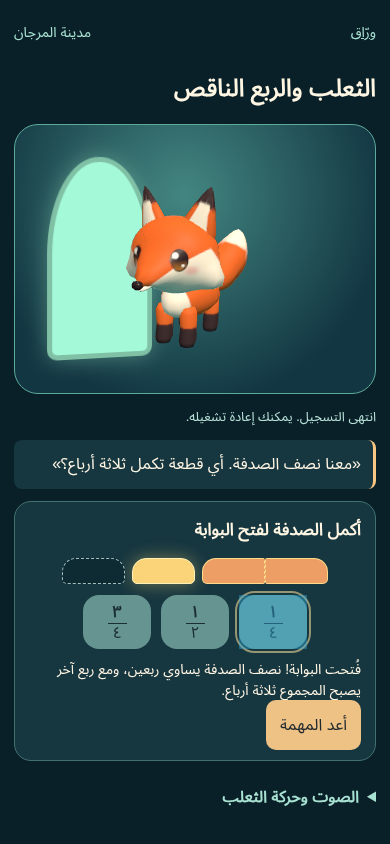
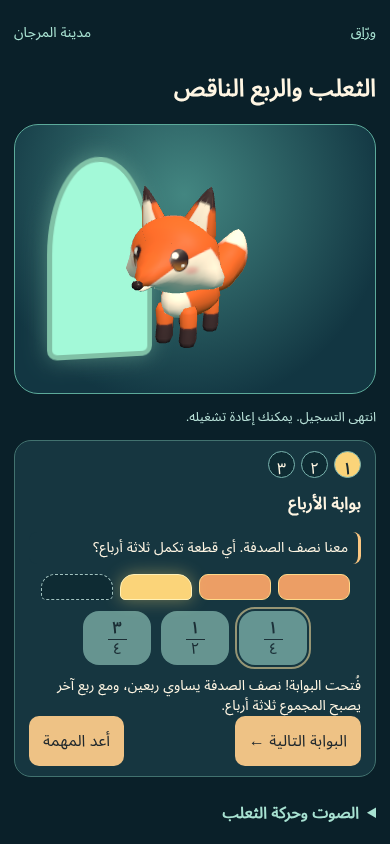
Extend fox fractions to three saved coral gates

diff --git a/fox-preview.js b/fox-preview.js
@@ -8,46 +8,116 @@ let playback;
 
 const gate = document.querySelector("#reef-gate");
 const shell = document.querySelector("#shell-board");
-const missing = document.querySelector("#missing");
 const feedback = document.querySelector("#feedback");
 const replay = document.querySelector("#replay");
-const choices = [...document.querySelectorAll("[data-piece]")];
+const next = document.querySelector("#next-gate");
+const restart = document.querySelector("#restart");
+const title = document.querySelector("#mission-title");
+const choiceGroup = document.querySelector("#choices");
+const progress = document.querySelector("#gate-progress");
+const line = document.querySelector("#mission-line");
+const number = new Intl.NumberFormat("ar-OM", {numberingSystem:"arab"});
+const checkpoint = "warraq.fox-coral.gate.v1";
 let act = () => {};
 
-for (const choice of choices) {
-  choice.addEventListener("click", () => {
-    if (!replay.hidden) return;
-    choices.forEach(button => button.setAttribute("aria-pressed",String(button===choice)));
-    if(choice.dataset.piece!=="1"){
-      feedback.textContent = choice.dataset.piece==="2"
-        ? "النصف يساوي ربعين. معنا ربعان بالفعل، ونحتاج ربعًا واحدًا فقط."
-        : "هذه ثلاثة أرباع وحدها. لدينا ربعان، فابحث عن قطعة أصغر.";
-      act("sit");
-      return;
-    }
-    missing.classList.add("filled");
-    shell.ariaLabel = "ثلاثة أرباع من الصدفة";
-    gate.classList.add("open");
-    feedback.textContent = "فُتحت البوابة! نصف الصدفة يساوي ربعين، ومع ربع آخر يصبح المجموع ثلاثة أرباع.";
-    replay.hidden = false;
-    replay.focus({preventScroll:true});
-    choices.forEach(button => { button.disabled = true; });
-    act("jump");
-  });
+// Each option describes the same-size cells used by the gate and its display fraction.
+const missions = [
+  {
+    name:"بوابة الأرباع", whole:4, initial:2, target:3,
+    line:"معنا نصف الصدفة. أي قطعة تكمل ثلاثة أرباع؟",
+    options:[[1,4,"ربع"],[1,2,"نصف"],[3,4,"ثلاثة أرباع"]],
+    success:"نصف الصدفة يساوي ربعين، ومع ربع آخر يصبح المجموع ثلاثة أرباع.",
+  },
+  {
+    name:"بوابة السداسيات", whole:6, initial:3, target:5,
+    line:"معنا نصف الصدفة، أي ثلاثة أسداس. أي قطعة تكمل خمسة أسداس؟",
+    options:[[1,6,"سدس واحد"],[1,3,"ثلث"],[1,2,"نصف"]],
+    success:"الثلث يساوي سدسين. ثلاثة أسداس وسدسان تساوي خمسة أسداس.",
+  },
+  {
+    name:"بوابة الأثمان", whole:8, initial:2, target:5,
+    line:"معنا ربع الصدفة، أي ثمنان. أي قطعة تكمل خمسة أثمان؟",
+    options:[[1,2,"نصف"],[1,4,"ربع"],[3,8,"ثلاثة أثمان"]],
+    success:"الربع يساوي ثمنين. ثمنان وثلاثة أثمان تساوي خمسة أثمان.",
+  },
+];
+
+function readCheckpoint(){
+  try {
+    const saved = Number(localStorage.getItem(checkpoint));
+    if(Number.isInteger(saved)&&saved>=0&&saved<missions.length)return saved;
+  }catch{}
+  return 0;
 }
-replay.onclick = () => {
-  choices.forEach(button => {
-    button.disabled = false;
-    button.removeAttribute("aria-pressed");
-  });
+let stageIndex = readCheckpoint();
+
+function paintShell(cells){
+  const mission = missions[stageIndex];
+  const filled = mission.initial+cells;
+  shell.ariaLabel = mission.whole===4 ? (cells?"ثلاثة أرباع من الصدفة":"ربعان من أربعة")
+    : number.format(filled)+" من "+number.format(mission.whole);
+  shell.replaceChildren(...Array.from({length:mission.whole},(_,index)=>{
+    const cell=document.createElement("i");
+    if(index<mission.initial)cell.className="half";
+    else if(index<filled)cell.className="filled";
+    return cell;
+  }));
+}
+
+function selectPiece(cells,button){
+  const mission = missions[stageIndex];
+  const missing = mission.target-mission.initial;
+  for(const choice of choiceGroup.children)choice.setAttribute("aria-pressed",String(choice===button));
+  if(cells!==missing){
+    feedback.textContent = stageIndex===0 ? "معنا ربعان بالفعل، ونحتاج ربعًا واحدًا فقط." :
+      "تغطي هذه القطعة "+number.format(cells)+" من الأجزاء المتساوية. نحتاج "+number.format(missing)+" منها.";
+    act("sit");
+    return;
+  }
+  paintShell(cells);
+  gate.classList.add("open");
+  const isLast = stageIndex===missions.length-1;
+  feedback.textContent = (isLast?"أكملت رحلة المرجان! ":"فُتحت البوابة! ")+mission.success;
+  for(const choice of choiceGroup.children)choice.disabled=true;
+  next.hidden=isLast;
+  replay.hidden=false;
+  (isLast?replay:next).focus({preventScroll:true});
+  act("jump");
+}
+
+function renderMission(focus=false){
+  const mission = missions[stageIndex];
+  try{localStorage.setItem(checkpoint,String(stageIndex));}catch{}
+  title.textContent=mission.name;
+  line.textContent=mission.line;
+  restart.hidden=stageIndex===0;
+  progress.replaceChildren(...missions.map((item,index)=>{
+    const step=document.createElement("li");
+    step.textContent=number.format(index+1);
+    step.title=item.name;
+    if(index===stageIndex)step.setAttribute("aria-current","step");
+    if(index<stageIndex)step.className="completed";
+    return step;
+  }));
+  paintShell(0);
   gate.classList.remove("open");
-  missing.classList.remove("filled");
-  shell.ariaLabel = "ربعان من أربعة";
-  feedback.textContent = "انظر إلى الأرباع الأربعة، ثم اختر القطعة الناقصة.";
-  replay.hidden = true;
-  choices[0].focus({preventScroll:true});
+  next.hidden=replay.hidden=true;
+  feedback.textContent="اختر القطعة الناقصة لتفتح البوابة.";
+  choiceGroup.replaceChildren(...mission.options.map(([numerator,denominator,label])=>{
+    const button=document.createElement("button");
+    button.type="button";
+    button.ariaLabel=label;
+    button.innerHTML='<span class="fraction"><b>'+number.format(numerator)+'</b><span>'+number.format(denominator)+'</span></span>';
+    button.onclick=()=>selectPiece(numerator*mission.whole/denominator,button);
+    return button;
+  }));
   act("idle");
-};
+  if(focus)title.focus({preventScroll:true});
+}
+next.onclick=()=>{stageIndex++;renderMission(true);};
+replay.onclick=()=>{renderMission();choiceGroup.firstElementChild.focus({preventScroll:true});};
+restart.onclick=()=>{stageIndex=0;renderMission(true);};
+renderMission();
 
 async function load() {
   const THREE = await import("three");

diff --git a/tests/fox-preview.spec.js b/tests/fox-preview.spec.js
@@ -49,7 +49,7 @@ test("loads the real fox, toggles walking and plays an uploaded waveform", async
   await page.screenshot({path:info.outputPath("fox-fraction-complete.png")});
 });
 
-test("completes the missing quarter and resets the gate with WebGL unavailable",async({page},info)=>{
+test("completes the missing quarter and resets the gate with WebGL unavailable",async({page})=>{
   await page.route("https://cdn.jsdelivr.net/npm/three@0.174.0/**",route=>route.abort());
   await page.goto("/fox-preview.html");
   await page.getByRole("button",{name:"نصف",exact:true}).tap();
@@ -59,9 +59,32 @@ test("completes the missing quarter and resets the gate with WebGL unavailable",
   await expect(page.locator("#shell-board")).toHaveAccessibleName("ثلاثة أرباع من الصدفة");
   await expect(page.locator("#reef-gate")).toHaveClass(/open/);
   await expect(page.locator("#feedback")).toContainText("فُتحت البوابة");
-  await expect(page.locator("#replay")).toBeFocused();
+  await expect(page.locator("#next-gate")).toBeFocused();
+  await page.locator("#replay").focus();
   await page.keyboard.press("Enter");
   await expect(page.locator("#shell-board")).toHaveAccessibleName("ربعان من أربعة");
   await expect(page.getByRole("button",{name:"ربع",exact:true})).toBeEnabled();
   expect(await page.evaluate(()=>document.documentElement.scrollWidth)).toBe(390);
+});
+
+test("advances through three gates and remembers the current gate",async({page})=>{
+  await page.route("https://cdn.jsdelivr.net/npm/three@0.174.0/**",route=>route.abort());
+  await page.goto("/fox-preview.html");
+  await page.getByRole("button",{name:"ربع",exact:true}).tap();
+  await page.keyboard.press("Enter");
+  await expect(page.locator("#mission-title")).toHaveText("بوابة السداسيات");
+  await page.reload();
+  await expect(page.locator("#mission-title")).toHaveText("بوابة السداسيات");
+  await page.getByRole("button",{name:"سدس واحد",exact:true}).tap();
+  await expect(page.locator("#feedback")).toContainText("نحتاج ٢");
+  await page.getByRole("button",{name:"ثلث",exact:true}).tap();
+  await expect(page.locator("#shell-board")).toHaveAccessibleName("٥ من ٦");
+  await page.locator("#next-gate").tap();
+  await expect(page.locator("#mission-title")).toHaveText("بوابة الأثمان");
+  await page.getByRole("button",{name:"ثلاثة أثمان",exact:true}).tap();
+  await expect(page.locator("#feedback")).toContainText("أكملت رحلة المرجان");
+  await expect(page.locator("#shell-board")).toHaveAccessibleName("٥ من ٨");
+  await expect(page.locator("#next-gate")).toBeHidden();
+  await page.locator("#restart").tap();
+  await expect(page.locator("#mission-title")).toHaveText("بوابة الأرباع");
 });

diff --git a/fox-preview.html b/fox-preview.html
@@ -16,22 +16,18 @@
 <h1>الثعلب والربع الناقص</h1>
 <div id="stage"><canvas id="character" aria-label="ثعلب ثلاثي الأبعاد"></canvas><div id="reef-gate" class="reef-gate" aria-hidden="true"><span></span><span></span></div></div>
 <p id="status" role="status">جارٍ تحميل الثعلب…</p>
-<blockquote>«معنا نصف الصدفة. أي قطعة تكمل ثلاثة أرباع؟»</blockquote>
 <section class="mission" aria-labelledby="mission-title">
-<h2 id="mission-title">أكمل الصدفة لفتح البوابة</h2>
-<div class="shell-board" id="shell-board" role="img" aria-label="ربعان من أربعة">
-<i class="half first"></i><i class="half second"></i><i id="missing"></i><i></i>
-</div>
-<div class="choices" aria-label="قطع الصدفة" role="group">
-<button type="button" data-piece="1" aria-label="ربع"><span class="fraction"><b>١</b><span>٤</span></span></button>
-<button type="button" data-piece="2" aria-label="نصف"><span class="fraction"><b>١</b><span>٢</span></span></button>
-<button type="button" data-piece="3" aria-label="ثلاثة أرباع"><span class="fraction"><b>٣</b><span>٤</span></span></button>
-</div>
-<p id="feedback" role="status">انظر إلى الأرباع الأربعة، ثم اختر القطعة الناقصة.</p>
-<button id="replay" type="button" hidden>أعد المهمة</button>
+<nav class="gate-progress" aria-label="تقدّم رحلة المرجان"><ol id="gate-progress"></ol><button id="restart" type="button" hidden>ابدأ من جديد</button></nav>
+<h2 id="mission-title" tabindex="-1"></h2>
+<blockquote id="mission-line"></blockquote>
+<div class="shell-board" id="shell-board" role="img"></div>
+<div id="choices" class="choices" aria-label="قطع الصدفة" role="group"></div>
+<p id="feedback" role="status"></p>
+<div class="mission-actions"><button id="next-gate" type="button" hidden>البوابة التالية ←</button><button id="replay" type="button" hidden>أعد المهمة</button></div>
 </section>
 <details id="voice-tools"><summary>الصوت وحركة الثعلب</summary>
-<label for="recording">أرفق تسجيلًا عربيًا لهذه الجملة</label>
+<p class="note">جملة اختبار الصوت: «معنا نصف الصدفة. أي قطعة تكمل ثلاثة أرباع؟»</p>
+<label for="recording">أرفق تسجيلًا عربيًا للتجربة</label>
 <input id="recording" type="file" accept="audio/*">
 <div class="actions">
 <button id="speak" disabled>شغّل التسجيل</button>

diff --git a/fox-preview.css b/fox-preview.css
@@ -22,8 +22,6 @@ h2{font-size:17px;margin:0 0 10px}
 .shell-board,.choices{display:flex;gap:7px;justify-content:center}
 .shell-board i{width:19%;height:26px;border:1px dashed #a1c2bf;border-radius:14px 14px 5px 5px;background:#0e2b33}
 .shell-board .half{background:#ec9e65;border:1px solid #ffd98a}
-.shell-board .first{border-start-end-radius:2px;border-end-end-radius:2px;margin-inline-end:-7px;border-inline-end-style:dashed}
-.shell-board .second{border-start-start-radius:2px;border-end-start-radius:2px;border-inline-start-style:dashed}
 .shell-board .filled{background:#fbd479;border:1px solid #fff0b6;box-shadow:0 0 17px #ffde7466}
 .choices{margin-block-start:11px;gap:10px}.choices button{min-width:68px;border-radius:16px;background:#a8e2d2}
 .choices button[aria-pressed=true]{outline:2px solid #ffe4a0;outline-offset:2px}
@@ -33,3 +31,12 @@ summary{padding:9px 0;cursor:pointer;font-weight:bold;color:#a8e2d2}
 [hidden]{display:none!important}
 @media(max-width:500px){#stage{height:clamp(195px,32svh,285px)}}
 @media(prefers-reduced-motion:reduce){.reef-gate span{transition:none}}
+.gate-progress,.mission-actions{display:flex;align-items:center;gap:8px;justify-content:space-between}
+.gate-progress ol{display:flex;list-style:none;gap:6px;padding:0;margin:0 0 8px}
+.gate-progress li{display:grid;place-items:center;border:1px solid #79b3ae;border-radius:50%;width:27px;height:27px;background:#0e2b33}
+.gate-progress li[aria-current=step]{background:#fbd479;color:#182a31;font-weight:bold}
+.gate-progress .completed{background:#245d53}
+#restart{background:#174550;color:#f1fffb;padding-inline:8px;font-size:12px}
+#mission-line{font-size:14px;margin:4px 0 10px;padding:5px 10px}
+.shell-board i{flex:1;max-width:72px;min-width:0}
+.shell-board .half{border-radius:9px}

diff --git a/docs/fox-preview/README.md b/docs/fox-preview/README.md
@@ -11,3 +11,7 @@
 ## مهمة الربع الناقص
 
 افتح «العب مع الثعلب: الربع الناقص» من شاشة اختيار المغامرة. تُظهر الصدفة نصفًا مقسومًا إلى ربعين. اختر قطعة من الخيارات الثلاثة. يعطي الثعلب تلميحًا عند اختيار قطعة أكبر من اللازم، وعند اختيار الربع يكتمل الرسم وتفتح البوابة. يمكن إعادة الجولة بلوحة المفاتيح أو اللمس. تبقى المهمة الرياضية قابلة للعب عند تعذّر تحميل العرض الثلاثي الأبعاد. تظهر أدوات الصوت والمشي تحت عنوان «الصوت وحركة الثعلب».
+
+## رحلة المرجان
+
+تضم المعاينة ثلاث بوابات متتابعة. يكمل اللاعب نصفًا إلى ثلاثة أرباع بإضافة ربع، ثم نصفًا إلى خمسة أسداس بإضافة ثلث، ثم ربعًا إلى خمسة أثمان بإضافة ثلاثة أثمان. تُعرض القطع على لوحة فيها العدد المناسب من الأجزاء المتساوية. يتذكر المتصفح آخر بوابة انتقل إليها اللاعب ويتيح إعادة الجولة أو بدء الرحلة من جديد. جملة عينة الصوت الحالية مخصصة لاختبار حركة الفك وتبقى ثابتة في أدوات الصوت.
